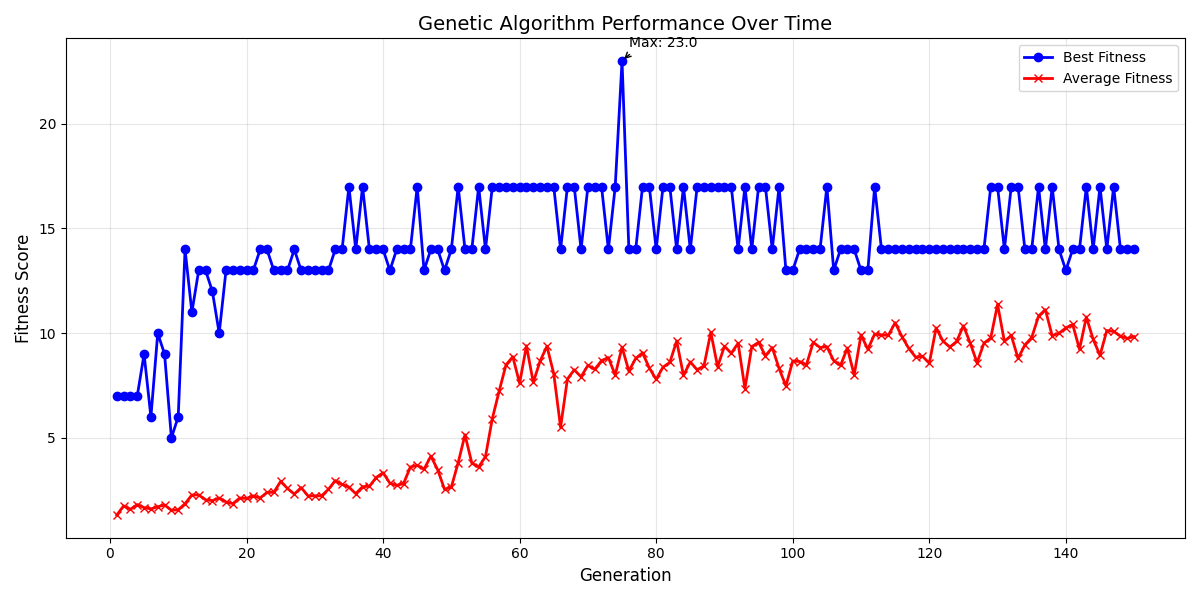
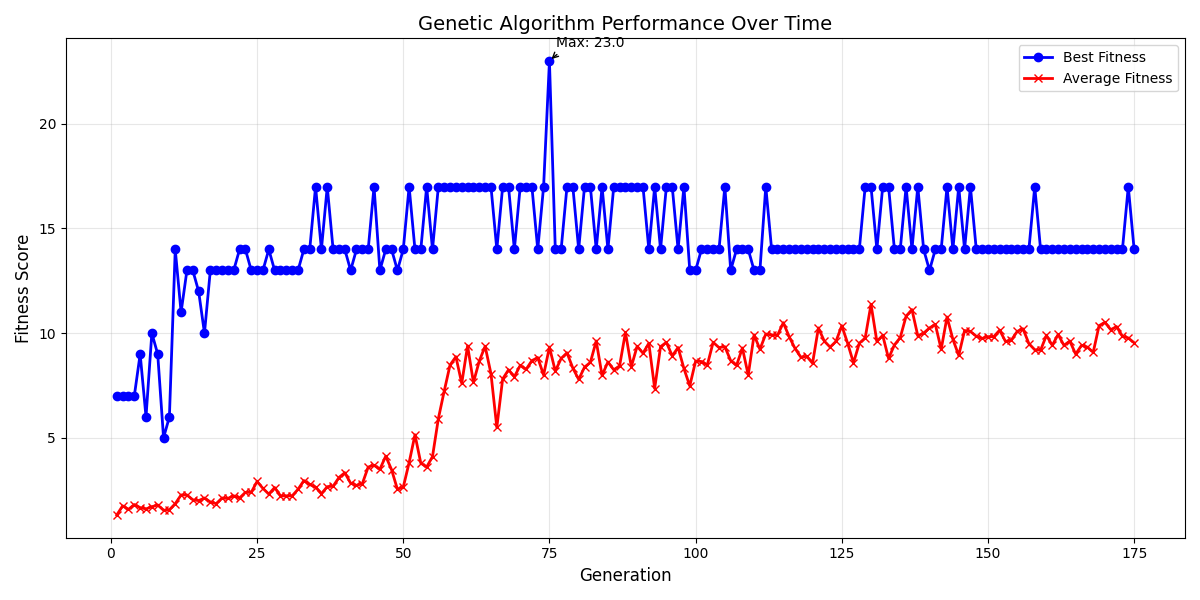
current GA code

diff --git a/scratchpad.py b/scratchpad.py
@@ -1,3 +1,130 @@
-import subprocess
+#!/usr/bin/env python3
+# filepath: /home/wslmax/classwork/ECE4524/MCParkourAI/minecraft_escape.py
 
-subprocess.run(["/mnt/c/Users/Max Linville/AppData/Local/Programs/PrismLauncher/prismlauncher.exe", "--launch", f"1.21.4(2)", "--profile", "MoopleMax"])
+import subprocess
+import time
+import json
+
+def get_minecraft_windows():
+    """Get a list of all Minecraft windows with their handles and titles"""
+    powershell_command = '''
+    powershell.exe -Command "
+    Add-Type @'
+    using System;
+    using System.Runtime.InteropServices;
+    using System.Collections.Generic;
+    using System.Text;
+    
+    public class WindowFinder {
+        [DllImport(\\"user32.dll\\")]
+        public static extern bool EnumWindows(EnumWindowsProc enumProc, IntPtr lParam);
+        
+        [DllImport(\\"user32.dll\\")]
+        public static extern int GetWindowText(IntPtr hWnd, StringBuilder lpString, int nMaxCount);
+        
+        [DllImport(\\"user32.dll\\")]
+        public static extern bool IsWindowVisible(IntPtr hWnd);
+        
+        public delegate bool EnumWindowsProc(IntPtr hWnd, IntPtr lParam);
+        
+        public static List<dynamic> FindMinecraftWindows() {
+            List<dynamic> results = new List<dynamic>();
+            EnumWindows(new EnumWindowsProc((hWnd, lParam) => {
+                StringBuilder sb = new StringBuilder(256);
+                if (IsWindowVisible(hWnd) && GetWindowText(hWnd, sb, sb.Capacity) > 0) {
+                    string title = sb.ToString();
+                    if (title.Contains(\\"Minecraft\\")) {
+                        results.Add(new { Handle = hWnd.ToInt64(), Title = title });
+                    }
+                }
+                return true;
+            }), IntPtr.Zero);
+            return results;
+        }
+    }
+'@
+    
+    [WindowFinder]::FindMinecraftWindows() | ConvertTo-Json
+    "
+    '''
+    
+    try:
+        result = subprocess.run(powershell_command, capture_output=True, text=True, shell=True)
+        if result.returncode == 0 and result.stdout.strip():
+            return json.loads(result.stdout.strip())
+        return []
+    except Exception as e:
+        print(f"Error finding Minecraft windows: {e}")
+        return []
+
+def focus_window_and_press_escape(window_handle):
+    """Focus a specific window and press the Escape key"""
+    powershell_command = f'''
+    powershell.exe -Command "
+    Add-Type @'
+    using System;
+    using System.Runtime.InteropServices;
+    
+    public class WindowController {{
+        [DllImport(\\"user32.dll\\")]
+        [return: MarshalAs(UnmanagedType.Bool)]
+        public static extern bool SetForegroundWindow(IntPtr hWnd);
+        
+        [DllImport(\\"user32.dll\\")]
+        public static extern void keybd_event(byte bVk, byte bScan, uint dwFlags, int dwExtraInfo);
+        
+        public const byte VK_ESCAPE = 0x1B;
+        public const uint KEYEVENTF_KEYDOWN = 0x0000;
+        public const uint KEYEVENTF_KEYUP = 0x0002;
+        
+        public static void PressEscape(IntPtr hWnd) {{
+            SetForegroundWindow(hWnd);
+            System.Threading.Thread.Sleep(200);  // Wait for window to come to foreground
+            keybd_event(VK_ESCAPE, 0, KEYEVENTF_KEYDOWN, 0);
+            System.Threading.Thread.Sleep(50);
+            keybd_event(VK_ESCAPE, 0, KEYEVENTF_KEYUP, 0);
+        }}
+    }}
+'@
+    
+    [WindowController]::PressEscape([IntPtr]::new({window_handle}))
+    "
+    '''
+    
+    try:
+        subprocess.run(powershell_command, shell=True, check=True)
+        return True
+    except Exception as e:
+        print(f"Error interacting with window: {e}")
+        return False
+
+def main():
+    print("Finding Minecraft windows...")
+    minecraft_windows = get_minecraft_windows()
+    
+    if not minecraft_windows:
+        print("No Minecraft windows found.")
+        return
+    
+    print(f"Found {len(minecraft_windows)} Minecraft window(s).")
+    
+    for i, window in enumerate(minecraft_windows, 1):
+        title = window.get('Title', 'Unknown')
+        handle = window.get('Handle')
+        
+        print(f"Processing window {i}/{len(minecraft_windows)}: {title}")
+        
+        if handle:
+            success = focus_window_and_press_escape(handle)
+            if success:
+                print(f"Successfully pressed Escape on window: {title}")
+            else:
+                print(f"Failed to interact with window: {title}")
+        
+        # Wait a moment before moving to the next window
+        time.sleep(1)
+    
+    print("All Minecraft windows processed.")
+
+if __name__ == "__main__":
+    main()

diff --git a/main.py b/main.py
@@ -15,7 +15,7 @@ from backend.agent import Agent
 from backend.minecraft_agents import networkCommander, start_agents
 from save_figure import save_figure
 # Configuration
-STARTING_GENERATIONS = 125 # need to replace this with getting most recent gen from file
+STARTING_GENERATIONS = 150 # need to replace this with getting most recent gen from file
 NUM_AGENTS = 48
 NUM_GENERATIONS = 25
 SAVE_EVERY = 1  # Save genes every N generations
